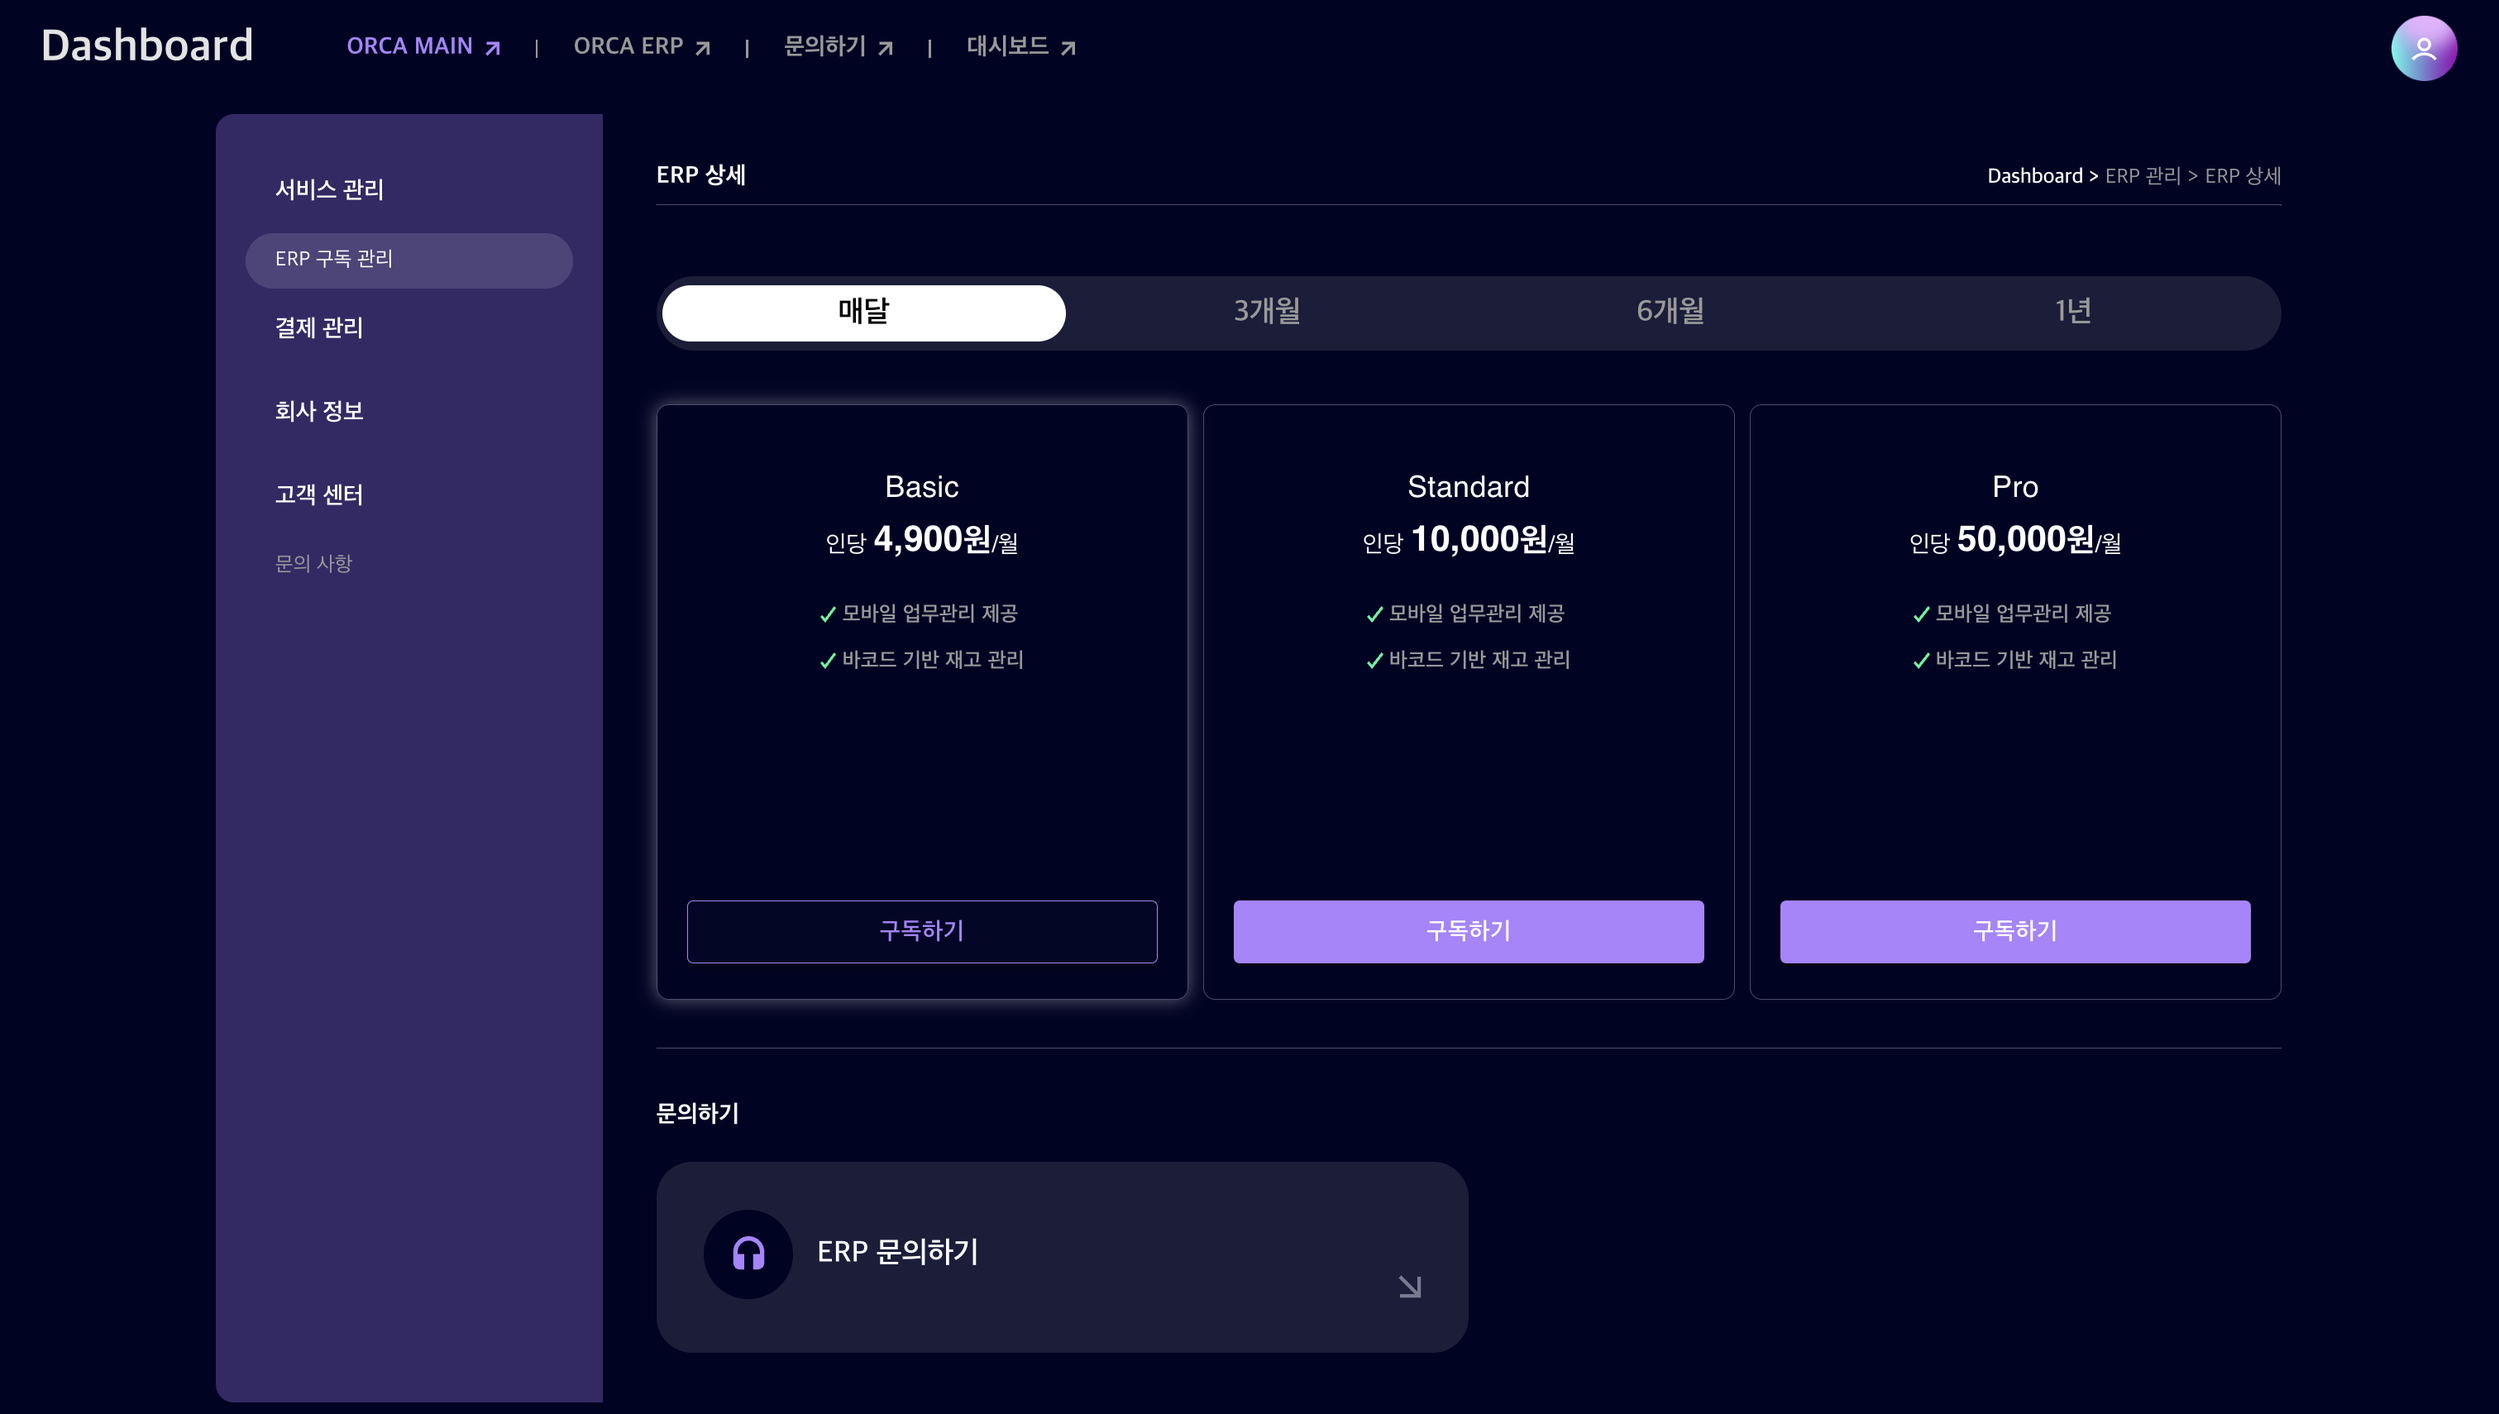
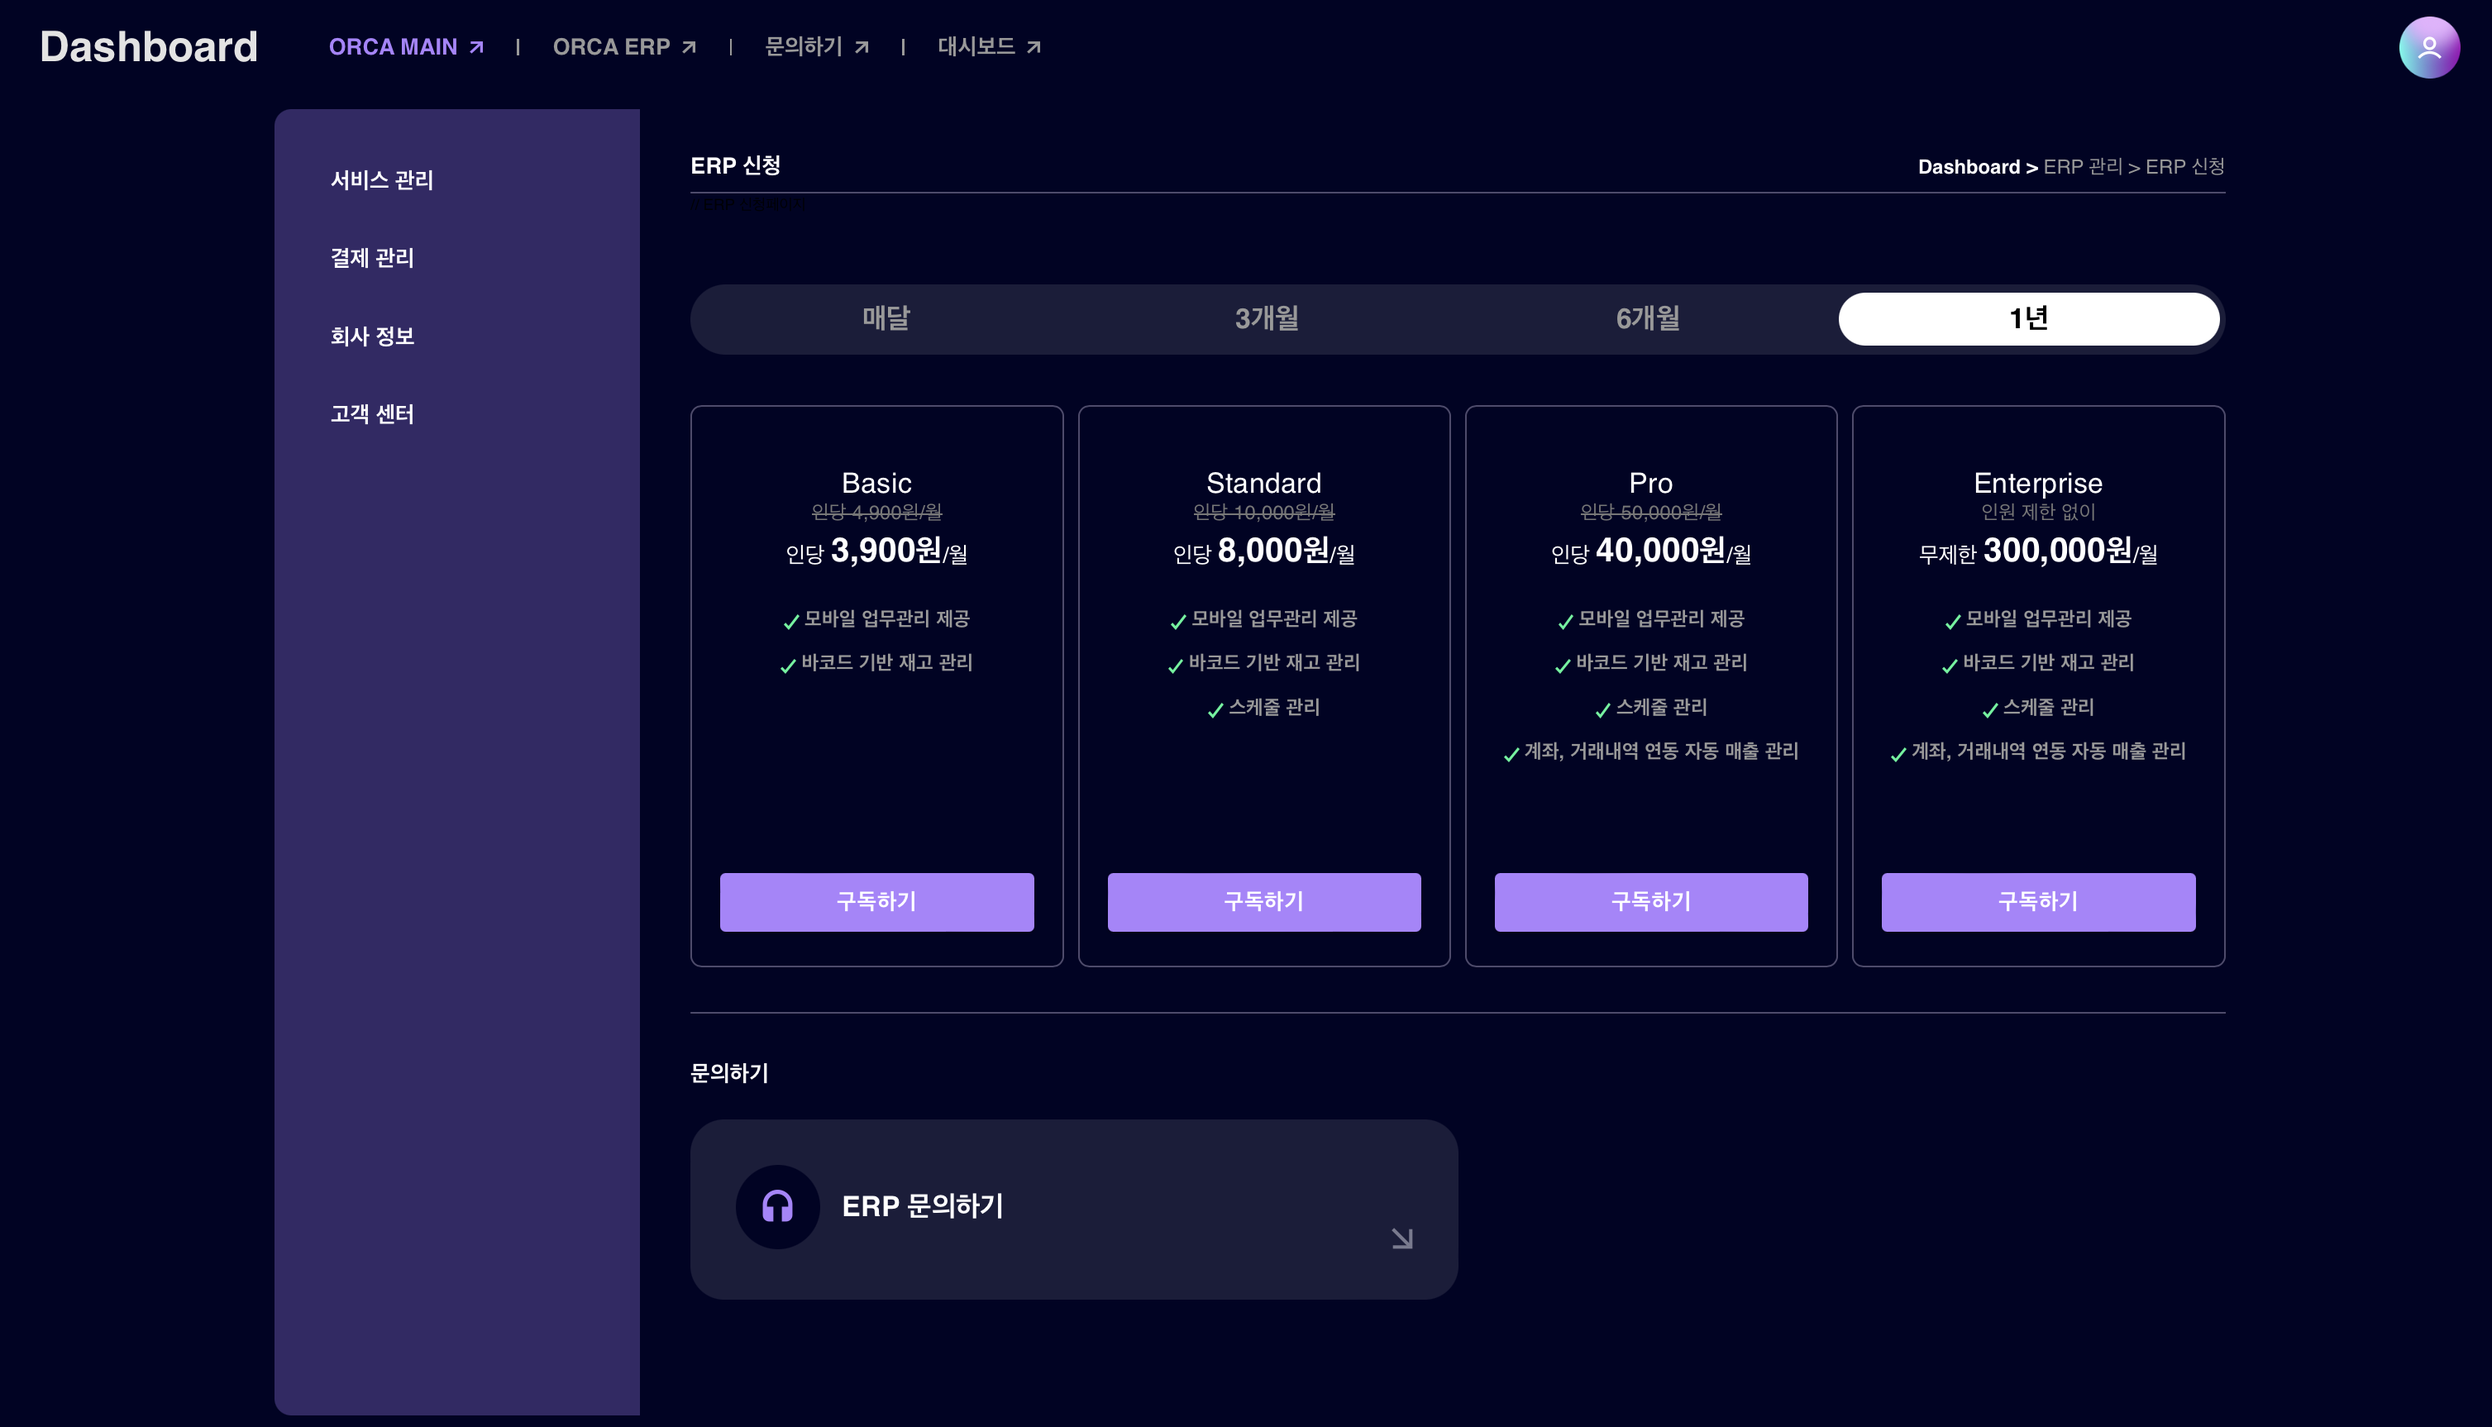
Add contents

diff --git a/README.md b/README.md
@@ -1,30 +1,33 @@
 # 2024 상반기 인턴십
 
-근무회사: (주)팀에브리웨어 <br/>
-분야: 스마트팩토리 관련 ERP/MES 제조업 솔루션 <br/>
-기간: 2024.03 ~ 2024.06 <br/>
-인턴 직무: 웹 프론트엔드 <br/>
-기술 스택: React.js, Next.js, JavaScript, TypeScript
+- 근무회사: (주)팀에브리웨어 <br/>
+- 분야: 스마트팩토리 관련 ERP/MES 제조업 솔루션 <br/>
+- 기간: 2024.03 ~ 2024.06 <br/>
+- 인턴 직무: 웹 프론트엔드 <br/>
+- 기술 스택: React.js, Next.js, JavaScript, TypeScript
 
 ## 참여 프로젝트 1 <br/>
 
-ORCA 플랫폼 -ERP 제품 소개 웹사이트 <br/>
+#### ORCA 플랫폼 -ERP 제품 소개 웹사이트 <br/>
+
 https://www.orca.partners <br/>
 
-사용 기술 스택: React.js, Next.js, JavaScript, TypeScript <br/>
-사용 라이브러리: material-ui, styled-components, chart.js, chart.js-2, next Image, mediaQuery
+- 사용 기술 스택: React.js, Next.js, JavaScript, TypeScript <br/>
+- 사용 라이브러리: material-ui, styled-components, chart.js, chart.js-2, next Image, mediaQuery, axios
+
+#### 작업 페이지 목록
 
 <p align="center">
   <img src="./screenshots/1.png" width="70%" align="center"/>
   <img src="./screenshots/4.png" width="29%" align="center"/>
 </p>
 
-### 메인페이지
+#### 메인페이지
 
 - 웹사이트 접속 시 랜더링 되는 첫 페이지
 - 뉴스, 지표, 정책 등 제조업 관련 정보와 사이트 내에 게재된 게시판 및 공지사항 확인 가능
 
-### 작업 부분
+#### 작업 부분
 
 - 페이지 레이아웃 구성
 - 반응형 네이게이션 바 제작
@@ -32,7 +35,7 @@ https://www.orca.partners <br/>
 - 달력: 오늘 날짜 강조 및 주간 단위로 선택 가능하도록 구현
 - 경기실사지수: chart.js 라이브러리로 데이터 시각화 및 tooltip, label, legend 커스텀
 
-### 로직
+#### 로직
 
 - 메인페이지, ERP페이지에서 동일하게 사용되는 레이아웃 구성 후 `Page.getLayout` 형태로 재사용
 - `@media` 쿼리를 사용하여 모바일 사이즈에서의 컴포넌트 재배치 및 조정
@@ -43,18 +46,18 @@ https://www.orca.partners <br/>
   <img src="./screenshots/3.png" width="29%" align="center"/>
 </p>
 
-### ERP 페이지
+#### ERP 페이지
 
 - ORCA ERP 제품 소개 페이지
 - 각 링크 클릭 시 해당 페이지 및 사이트로 이동
 
-### 작업 부분
+#### 작업 부분
 
 - lazy 로딩을 사용하여 이미지 최적화
 - 각 컴포넌트 구성 및 레이아웃 배치
 - 다양한 디바이스 크기에 맞춘 반응형 페이지로 제작
 
-### 로직
+#### 로직
 
 - next/image 라이브러리 속성의 `loading="lazy"`를 사용하여 이미지가 뷰포트에 들어왔을 때 렌더링하여 성능 최적화
 - `@media` 쿼리를 사용하여 모바일 사이즈에서의 컴포넌트 재배치 및 조정
@@ -70,41 +73,41 @@ https://www.orca.partners <br/>
 
 <img src="./screenshots/20.png" />
 
-### 사용자 인증 페이지
+#### 사용자 인증 페이지
 
 - 로그인, 회원가입 페이지
 - 아이디, 비밀번호 찾기, 비밀번호 변경 페이지
 
-### 작업 부분
+#### 작업 부분
 
 - 각 필드값들의 유효성 체크
 - MuiTextfield, MuiButton 등 Mui 컴포넌트 커스텀
 
-### 로직
+#### 로직
 
 - `Yup`과 `Formik` 라이브러리를 이용하여 유효성 검사 및 에러 메시지 표시
 - `@mui/material` 라이브러리의 `createTheme()` 및 `ThemeProvider`를 이용하여 커스텀
 
-### 로직
+#### 로직
 
 <p align="center">
   <img src="./screenshots/5.png" width="79%" align="center"/>
   <img src="./screenshots/6.png" width="20%" align="center"/>
 </p>
 
-### 경기실사지수 페이지
+#### 경기실사지수 페이지
 
 - 제조업 부문별 경기실사지수를 표와 차트로 확인 가능
 - 모달을 이용한 용어 정의
 
-### 작업 부분
+#### 작업 부분
 
 - chart.js-2 라이브러리를 활용하여 tooltip, legend, label, line 등 커스텀
 - 더보기 버튼 클릭 시 더 많은 제조업 분야의 데이터 확인 가능
 - 외부 클릭 시 닫히는 모달 제작
 - 다양한 디바이스 크기에 맞춘 반응형 페이지로 제작
 
-### 로직
+#### 로직
 
 - `useState`를 사용하여 제조업 부문 탭 상태 관리
 - `useLayoutEffect`를 사용하여 DOM 렌더링 후 상태를 조작하여 화면 깜빡거림을 제거함으로써 사용자 UX 개선
@@ -115,19 +118,19 @@ https://www.orca.partners <br/>
   <img src="./screenshots/8.png" width="29%" align="center"/>
 </p>
 
-### 디지털전환지표 페이지
+#### 디지털전환지표 페이지
 
 - 제조업 관련 다양한 지표를 도넛, 바 차트로 확인 가능
 - 모달을 이용한 용어 정의
 
-### 작업 부분
+#### 작업 부분
 
 - Doughnut, Bar 차트 제작 및 수치 플로팅
 - 더보기 버튼 클릭 시 더 많은 제조업 분야의 데이터 확인 가능
 - 제조업 매출 규모, 업무 영역 드롭다운 모달 제작
 - 제조업 매출 규모, 업무 영역 화살표 버튼 클릭시 슬라이딩 이동 효과
 
-### 로직
+#### 로직
 
 - chart.js-2 라이브러리의 Doughnut 차트 이용
 - chartjs-plugin-datalabels 라이브러리를 이용하여 각 차트 각 항목의 수치 표시
@@ -137,61 +140,108 @@ https://www.orca.partners <br/>
 <img src="./screenshots/9.png" />
 <img src="./screenshots/10.png" />
 
-### 고객센터 문의하기 페이지
+#### 고객센터 문의하기 페이지
 
 - 문의 사항 확인 및 검색
 - 문의 등록
 
-### 작업 부분
+#### 작업 부분
 
 - MuiTextfield, MuiSelect, MuiButton 등 Mui 컴포넌트 커스텀
 - MuiDataGrid의 Pagination 섹션 커스텀
 
-### 로직
+#### 로직
 
 - `@mui/material` 라이브러리의 `createTheme()` 및 `ThemeProvider`를 이용하여 커스텀
 - 이외에도 `sx`, `styled-componenet` 등 다양한 방법으로 컴포넌트 커스텀
 
 <img src="./screenshots/11.png" />
 
-### 서비스 관리 페이지
+#### 서비스 관리 페이지
 
 - 기간 별 요금제 및 제공 서비스 확인 가능
 
-### 작업 부분
+#### 작업 부분
 
 - Tab Section 제작
 - Tab Item 제작
 
-### 로직
+#### 로직
 
 - `useState()`를 사용하여 기간 별 해당 요금제 렌더링
 - `map()` 함수를 사용하여 렌더링
 
+<p align="center">
+  <img src="./screenshots/42.png" width="49%" align="center"/>
+  <img src="./screenshots/43.png" width="49%" align="center"/>
+</p>
+
+#### 결제 페이지
+
+- 구독할 요금제 카드 등록/선택 후 결제
+
+#### 작업 부분
+
+- 구독 상품 불러오기
+- 카드 선택
+- 약관 동의 모달
+- 카드 결제 구현
+
+#### 로직
+
+- `router`의 query Param으로 구독할 상품 정보 전달
+- `GET` API로 카드 조회 및 `POST` API로 실 카드 결제 기능 구현
+- Material Ui의 `FormControlLabel`과 `Dialog` 컴포넌트로 약관 모달 제작
+- `useState()`를 사용한 유효성 체크로 필수 약관 미동의 시 구독 버튼 비활성화
+
+<p align="center">
+  <img src="./screenshots/44.png" width="49%" align="center"/>
+  <img src="./screenshots/45.png" width="49%" align="center"/>
+</p>
+
+#### 카드 선택/등록 페이지
+
+- 구독할 요금제 카드 등록/선택 후 결제
+
+#### 작업 부분
+
+- 카드 선택
+- 카드 등록 UI 변경
+- 약관 동의
+
+#### 로직
+
+- `GET` API로 등록한 카드 모두 조회 후 선택한 카드 정보 결제 시 전달
+- 구독 시에 카드 등록 가능하도록 페이지 추가 후 기존 UI 변경
+- 약관 개별선택 및 모두선택의 경우 토글 로직 구현
+
 ## 참여 프로젝트 2 <br/>
 
-ORCA 웹앱 -ERP 서비스 <br/>
+### ORCA 웹앱 -ERP 서비스 <br/>
+
 https://www.orca.partners <br/>
 
-사용 기술 스택: React.js, Next.js, TypeScript <br/>
-사용 라이브러리: react-redux, emotion, next Image
+- 사용 기술 스택: React.js, Next.js, TypeScript <br/>
+- 사용 라이브러리: react-redux, emotion, next Image, axios
+
+### 작업 페이지 목록
 
 <p align="center">
 <img src="./screenshots/12.png" width="50%" align="center"/>
 </p>
 
-### 로그인 페이지
+#### 로그인 페이지
 
 - 아이디, 비밀번호, 회사코드 입력 후 로그인
 - 자동로그인, 아이디 저장 가능
 
-### 작업 부분
+#### 작업 부분
 
 - 로그인 로직 구현
 - 자동로그인, 아이디 저장 기능 구현
 - 로그인 후 사용자 정보 저장
 
-### 로직
+#### 로직
 
 - 각 필드의 값을 `useState()`로 관리하여 유효성 체크 및 유효하지 않을 시 에러메시지 표시
 - `window.LocalStorage`를 이용하여 자동로그인, 아이디 저장 체크 여부 저장 후 값에 따라 기능 활성화
@@ -204,18 +254,18 @@ https://www.orca.partners <br/>
   <img src="./screenshots/23.png" width="45%" align="center"/>
 </p>
 
-### 아이디/비밀번호 찾기 페이지
+#### 아이디/비밀번호 찾기 페이지
 
 - 이름, 휴대폰 번호, 회사코드 입력 후 아이디 찾기
 - 이름, 이메일, 회사코드 입력 후 비밀번호 찾기
 
-### 작업 부분
+#### 작업 부분
 
 - 유효성 검사
 - 인증번호 타이머 구현
 - 모달창으로 전송 결과 알림
 
-### 로직
+#### 로직
 
 - 각 필드의 값을 `useState()`로 관리하여 유효성 체크 및 유효하지 않을 시 에러메시지 표시
 - 휴대폰 인증번호 발송 시 `setInterval()`함수를 이용하여 3분 시간 제한
@@ -226,17 +276,17 @@ https://www.orca.partners <br/>
 <img src="./screenshots/24.png" width="50%" align="center"/>
 </p>
 
-### 사이드바
+#### 사이드바
 
 - 회원 정보 확인 및 각종 메뉴로 이동
 
-### 작업 부분
+#### 작업 부분
 
 - 사용자 이름 표시
 - 하위 메뉴 토글 기능
 - 각 메뉴들 및 하위 메뉴들에 대해 재사용 가능한 컴포넌트 제작
 
-### 로직
+#### 로직
 
 - Redux의 `useSelector()`를 사용하여 `store`에 저장된 사용자 이름 get
 - Redux의 `useDispatch()` 및 정의한 `action`으로 사이드바 열림/닫힘 상태 제어 및 컴포넌트 최상단에서 상태 관리
@@ -248,17 +298,17 @@ https://www.orca.partners <br/>
   <img src="./screenshots/40.png" width="24%" align="center"/>
 </p>
 
-### 검색 모달
+#### 검색 모달
 
 - 띄워진 항목들 확인햐여 선택하거나 검색하여 항목 선택
 
-### 작업 부분
+#### 작업 부분
 
 - 데이터 리스트로 띄우기
 - 단어 검색 및 초성 검색 로직 구현
 - 단일 선택
 
-### 로직
+#### 로직
 
 - `GET` API로 불러온 데이터를 정제하여 `useState()`에 저장 후 `map()` 함수로 리스트 형태로 데이터 표시
 - 검색할 시 `filter()` 함수로 검색된 결과 필터링 후 일치하는 단어 컬러링
@@ -276,17 +326,17 @@ https://www.orca.partners <br/>
   <img src="./screenshots/35.png" width="49%" align="center"/>
 </p>
 
-### 작업지시 - 작업지시 등록 페이지
+#### 작업지시 - 작업지시 등록 페이지
 
 - 생산 계획을 바탕으로 작업 지시 등록
 
-### 작업 부분
+#### 작업 부분
 
 - 생산 조회 서치 모달 제작
 - 선택한 생산 정보로 작업 지시 Input 자동 완성
 - 선택된 생산 상세 정보 표시
 
-### 로직
+#### 로직
 
 - `GET` API로 생산 정보 불러오기
 - API query에 검색값 전달하여 검색 구현
@@ -299,16 +349,16 @@ https://www.orca.partners <br/>
   <img src="./screenshots/41.png" width="49%" align="center"/>
 </p>
 
-### 작업지시 - 재료재고, 창고 선택 페이지
+#### 작업지시 - 재료재고, 창고 선택 페이지
 
 - 창고 별 재료 차감 개수 수정
 
-### 작업 부분
+#### 작업 부분
 
 - 재료 및 창고에 대한 데이터 표시
 - 각 창고의 차감 개수 수정에 따른 총 재료 차감 개수 수정
 
-### 로직
+#### 로직
 
 - `GET` API로 창고 및 재료 정보 불러오기
 - 각각 다른 컴포넌트에서 동시에 이루어지는 수정으로 `useState()` 대신 `useRef()`로 값 제어
@@ -321,17 +371,17 @@ https://www.orca.partners <br/>
   <img src="./screenshots/33.png" width="24%" align="center"/>
 </p>
 
-### 작업지시 - 공정목록, 일정상세 페이지
+#### 작업지시 - 공정목록, 일정상세 페이지
 
 - 공정별, 일자별 담당자 지정
 
-### 작업 부분
+#### 작업 부분
 
 - 공정 데이터 표시
 - 공정기간 세분화하여 일자별로 분리
 - 일자별 담당자 지정 및 일괄지정 가능
 
-### 로직
+#### 로직
 
 - `GET` API로 공정 정보 불러오기
 - 날짜 분리 함수 제작하여 공정기간 일자별로 분리
